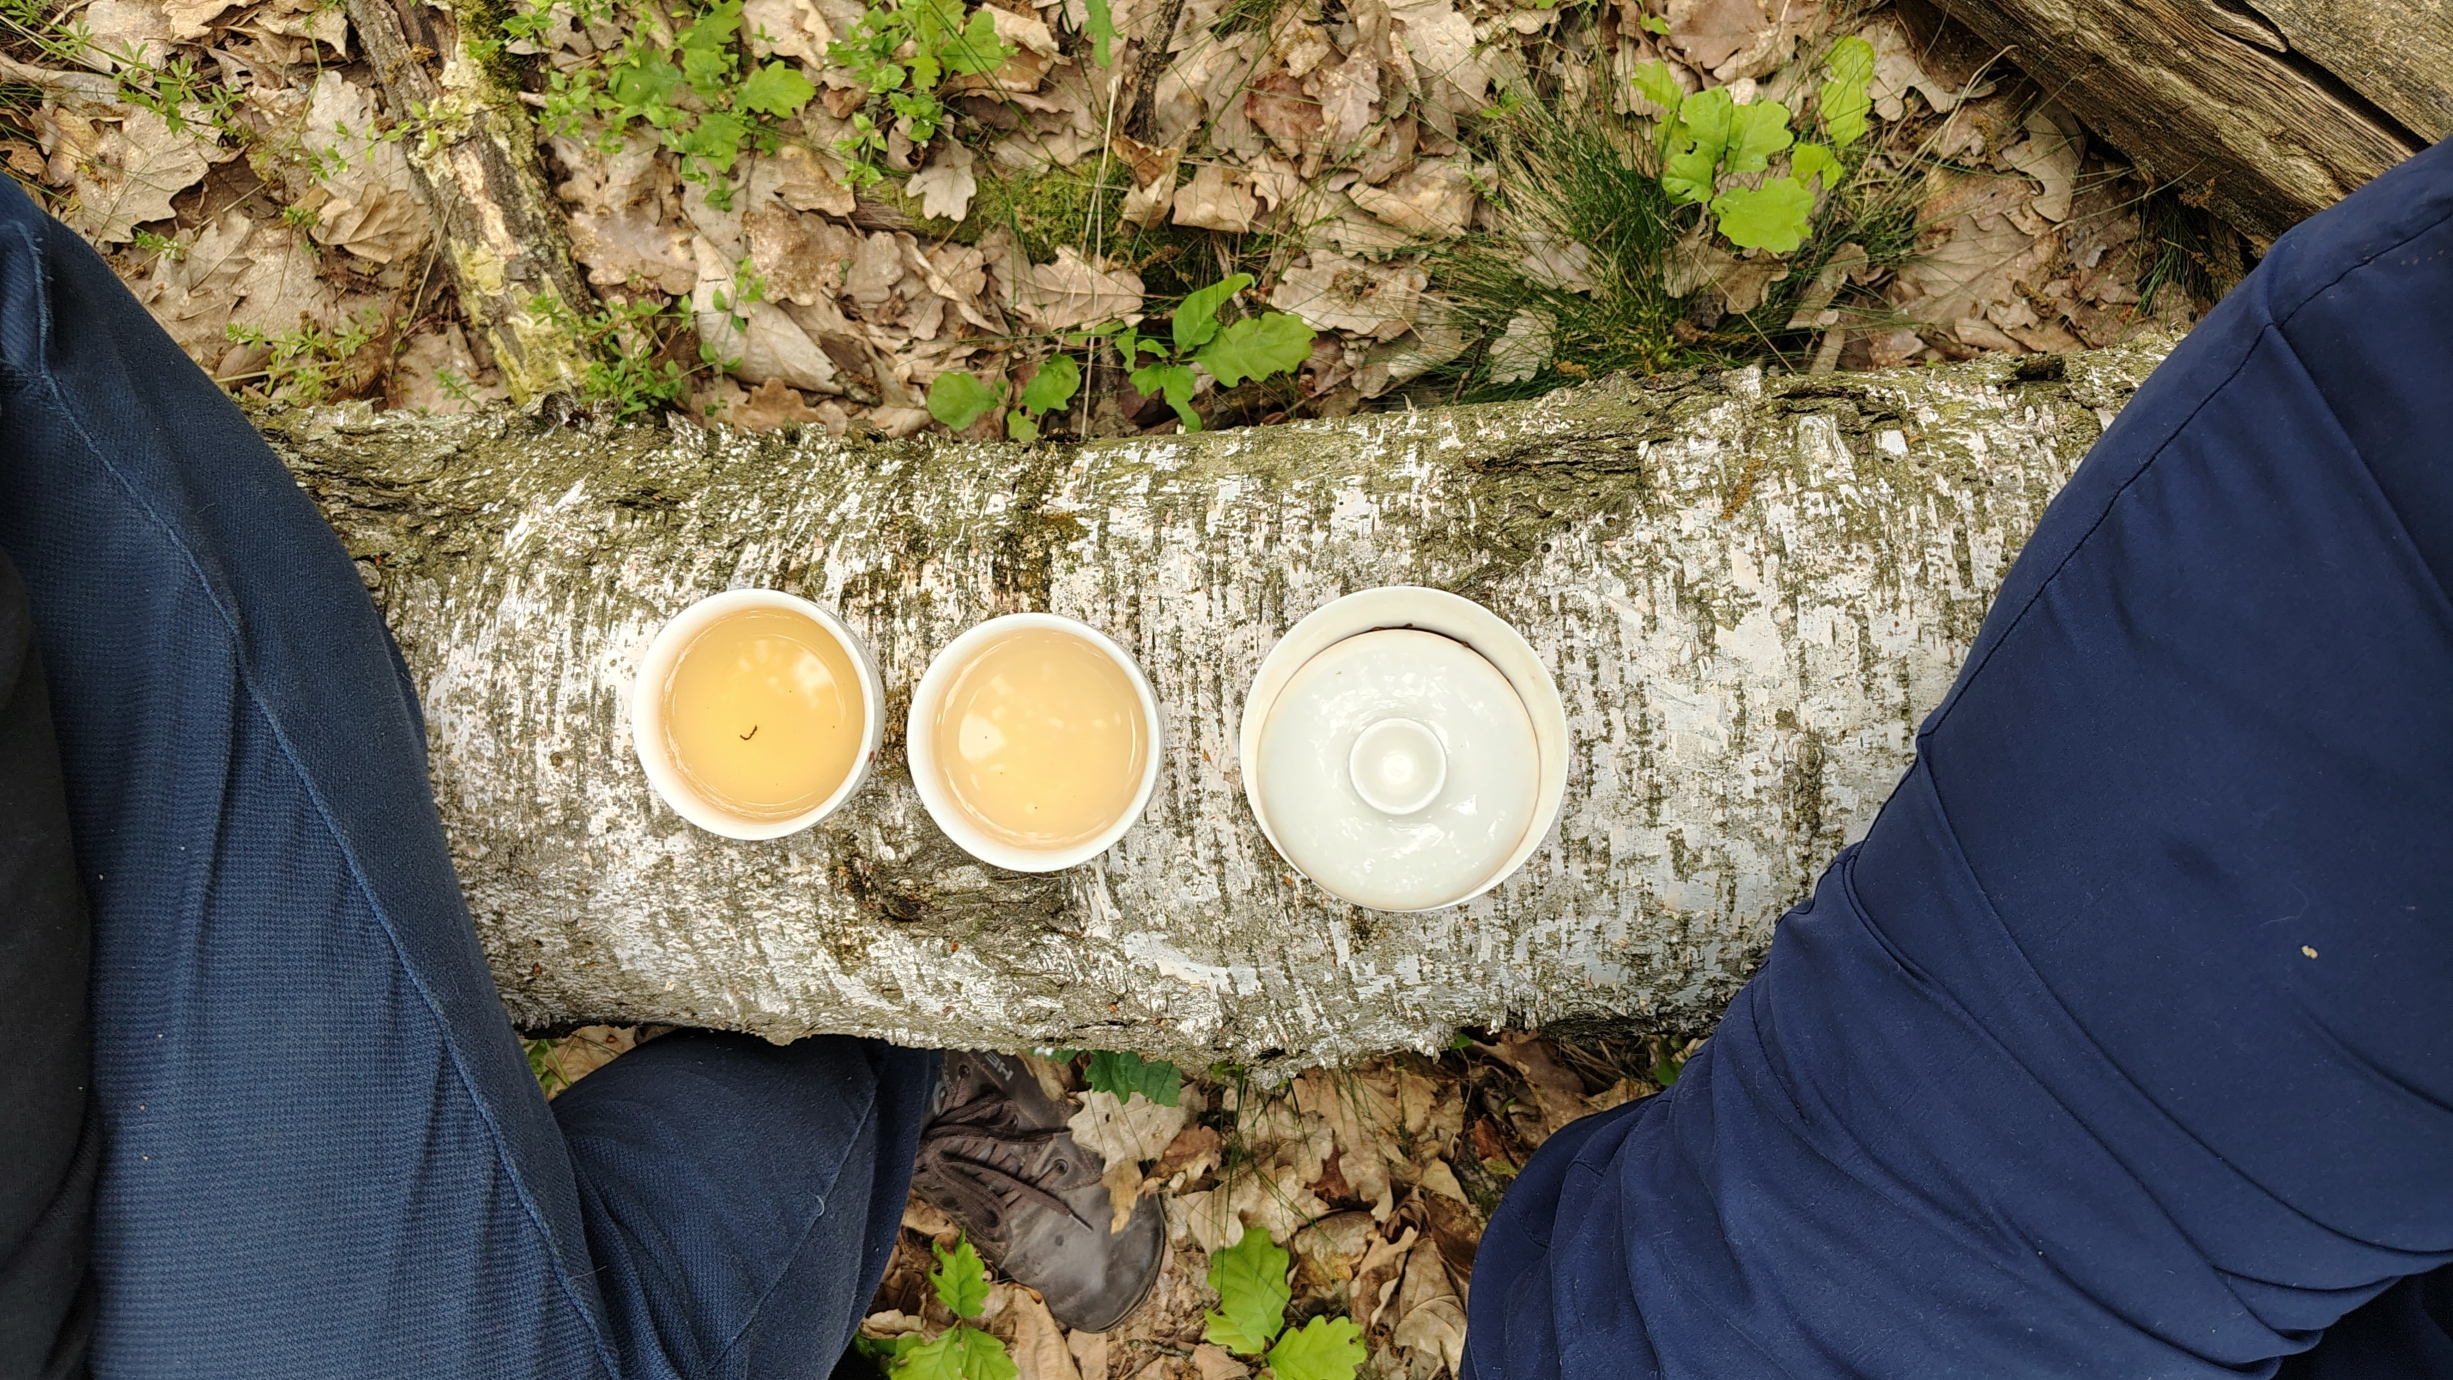
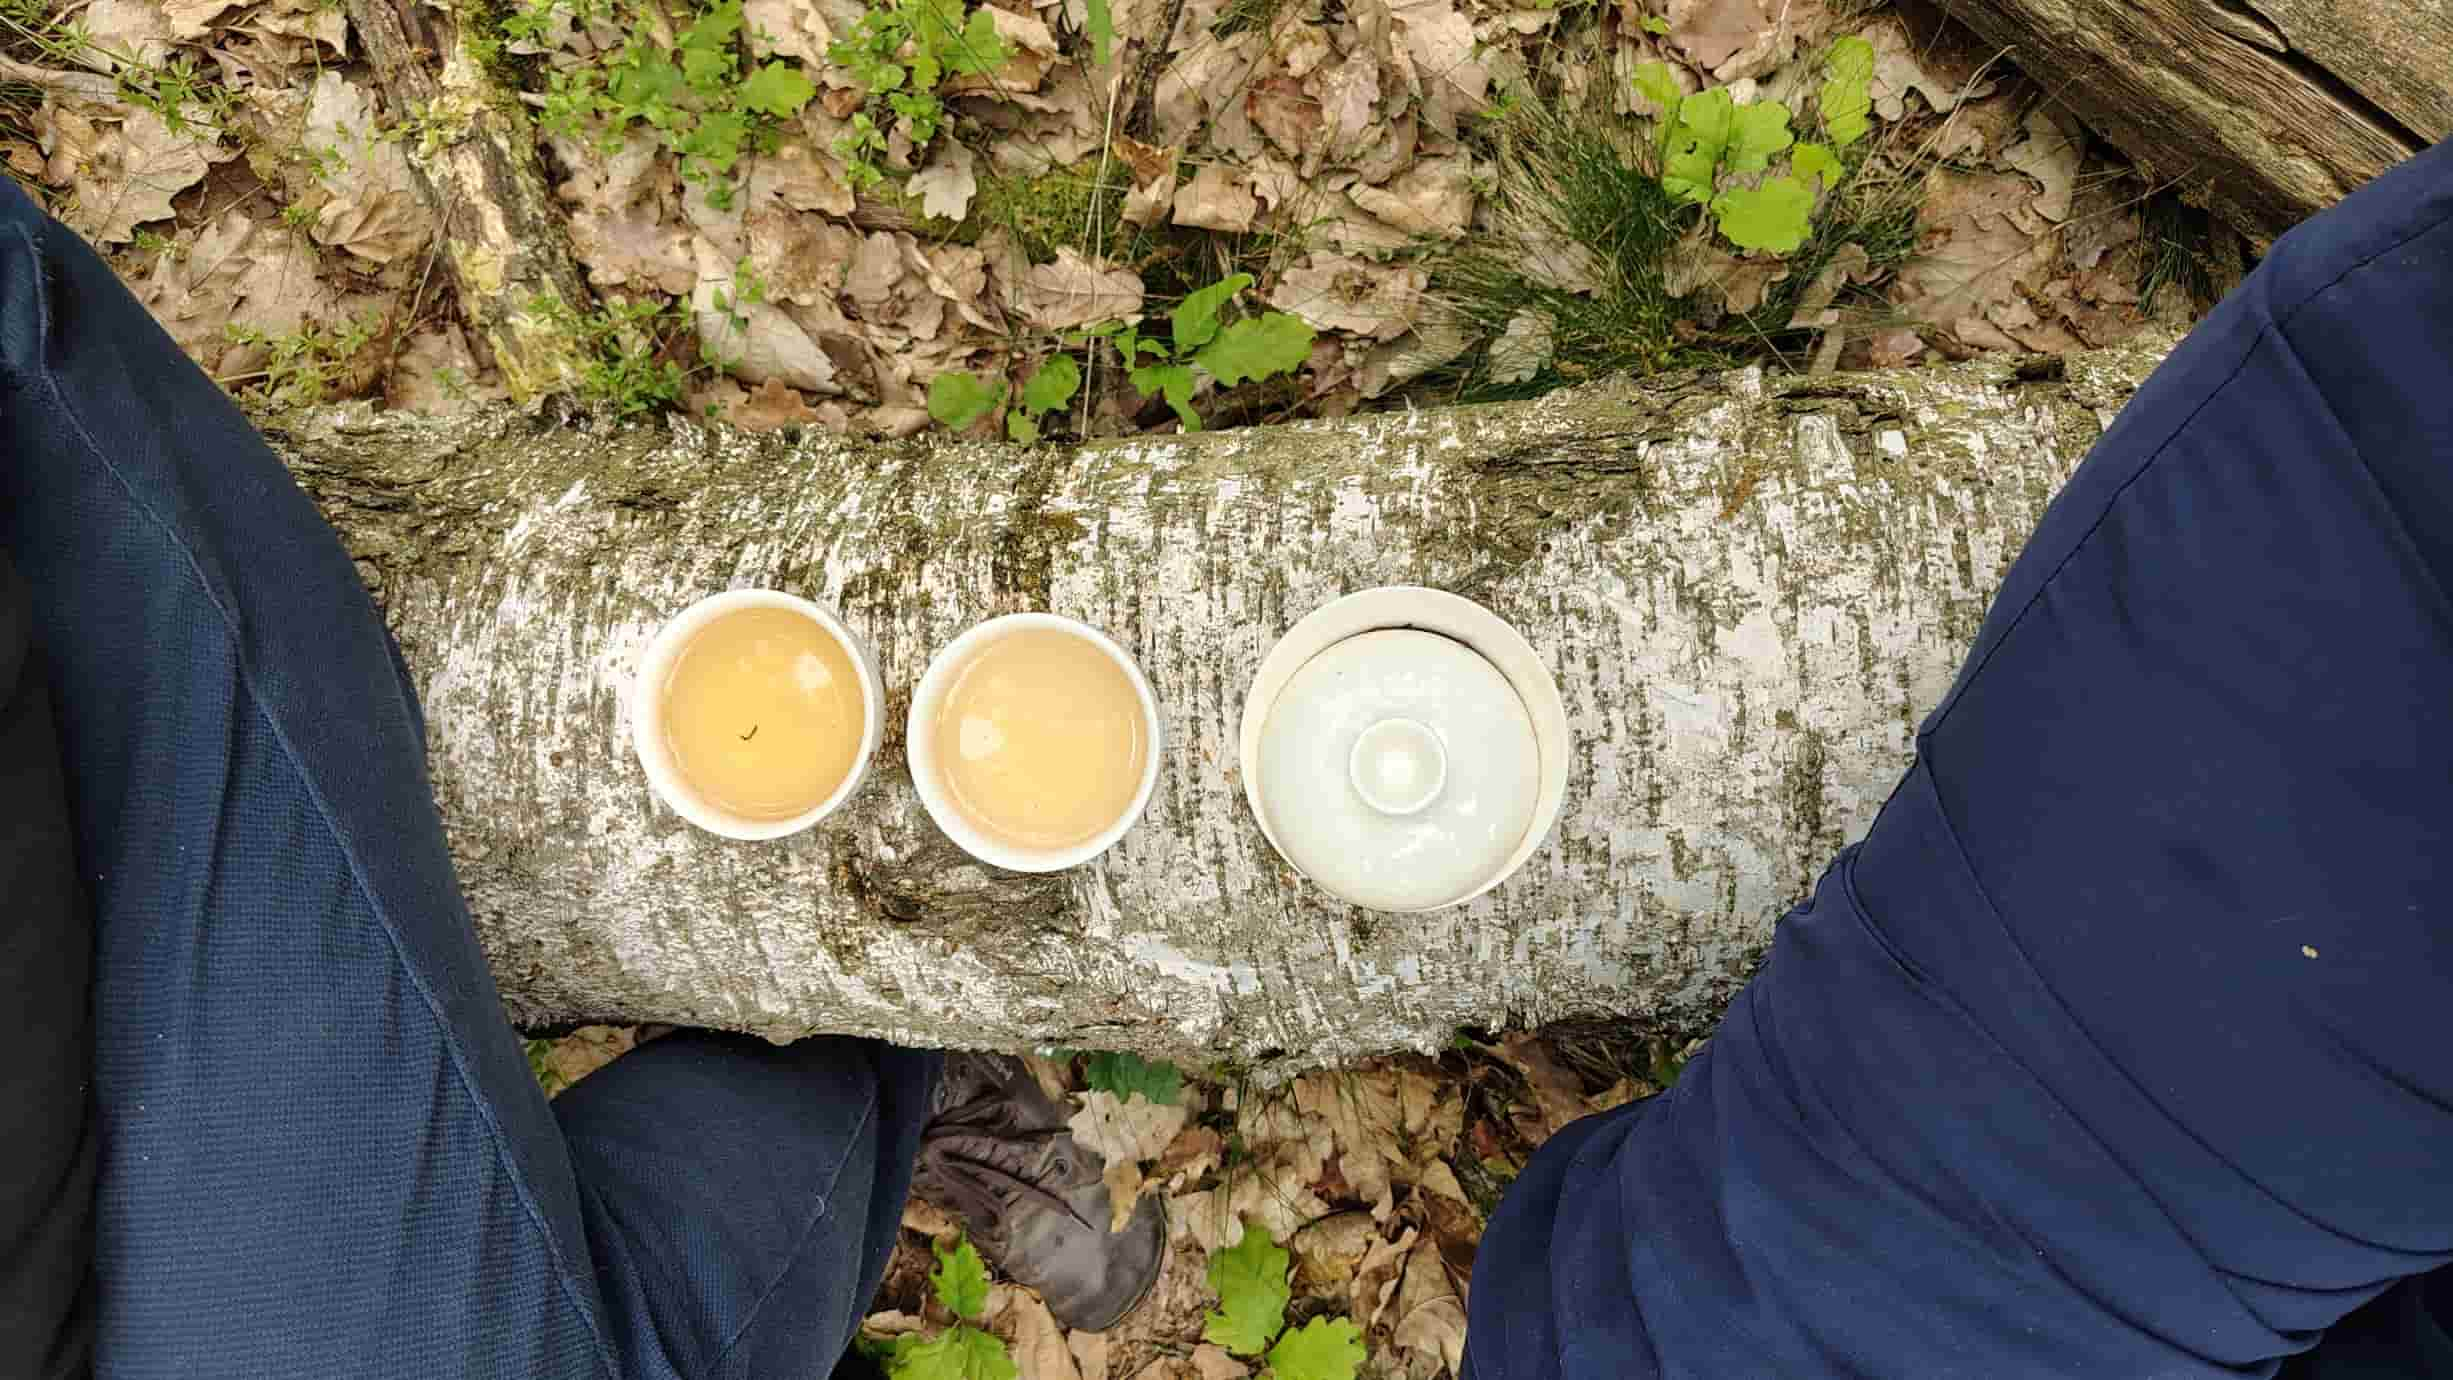
Přidání nové stránky pro malování hennou a aktualizace obrázků; úprava textu na úvodní stránce

diff --git a/src/pages/events/henna-11-8.md b/src/pages/events/henna-11-8.md
@@ -1,0 +1,57 @@
+---
+layout: ../../layouts/ContentPostLayout.astro
+title: malování hennou
+description: přijď si do čajovny pro dočasné tetování hennou
+subtitle: dočasné tetování jen tak pro radost
+metaLabel: Datum
+date: 2026-08-11
+tag: 11.8.2026
+coverImage: henna-7.jpg
+---
+
+### Henna 11.8. od 14:00
+#### Letní dočasné tetování
+V sobotu 18.7. budu v čajovně od 14h **do spotřebování zásoby henny** a nabízím, že ti něco nakreslím hennou na kůži. Můžeš přijít s přesnou představou/obrázkem v ruce, nebo s myšlenkou a společně najdeme motiv, nebo to nechat na mojí geometricko-květinové improvizaci. Pokud chceš mít jistotu, že na tebe přijde řada, napiš mi, v kolik chceš přijít. Nejsme zatím v kontaktu? - použij k tomu prosím e-mail **[email redacted]**
+
+### praktické info
+Henna je prášek z rozemletých listů rostliny _Lawsonia inermis_. Pokud máš sklony k alergickým reakcím a hennu zatím nemáš vyzkoušenou, doporučuje se nejdřív testovací malá tečka na zápěstí nebo za uchem (ideální doba pro jistotu, že jsi bez alergie, je 48h).
+Po malování hennou bude obrázek podle velikosti nějakou dobu schnout a co nejdýl by neměl přijít do kontaktu s vodou - po zaschnutí ho neloupej, až večer před spaním a na sucho! Namazat čerstvě oloupané tetování můžeš kokosovým nebo jiným olejem. Henna je nejdřív po oloupání naoranžovělá a až další den získává svůj hnědý odstím.
+ 
+ 
+
+#### Doporučený příspěvek
+Na čas a materiál podle velikosti a složitosti obrázku - malý o velikosti mince - 50 kč, střední přes půlku předloktí 200-300 Kč, celý rukáv 400-500 Kč (všechno jsou to odhady, ale hennu si míchám sama a kreslení věnuju čas a pozornost - jakýkoliv příspěvek je ve tvých možnostech je pro mě ok)
+### Galerie
+
+<section class="post-gallery" aria-label="Galerie henny">
+	<div class="post-gallery__grid">
+		<details class="gallery-lightbox post-gallery__item">
+			<summary class="gallery-lightbox__thumb"><img src="/henna-01.jpg" alt="Henna ukázka 1" loading="lazy" /></summary>
+			<div class="gallery-lightbox__overlay" aria-hidden="true"><img src="/henna-01.jpg" alt="Henna ukázka 1" loading="lazy" /></div>
+		</details>
+		<details class="gallery-lightbox post-gallery__item">
+			<summary class="gallery-lightbox__thumb"><img src="/henna-02.jpg" alt="Henna ukázka 2" loading="lazy" /></summary>
+			<div class="gallery-lightbox__overlay" aria-hidden="true"><img src="/henna-02.jpg" alt="Henna ukázka 2" loading="lazy" /></div>
+		</details>
+		<details class="gallery-lightbox post-gallery__item">
+			<summary class="gallery-lightbox__thumb"><img src="/henna-03.jpg" alt="Henna ukázka 3" loading="lazy" /></summary>
+			<div class="gallery-lightbox__overlay" aria-hidden="true"><img src="/henna-03.jpg" alt="Henna ukázka 3" loading="lazy" /></div>
+		</details>
+		<details class="gallery-lightbox post-gallery__item">
+			<summary class="gallery-lightbox__thumb"><img src="/henna-04.jpg" alt="Henna ukázka 4" loading="lazy" /></summary>
+			<div class="gallery-lightbox__overlay" aria-hidden="true"><img src="/henna-04.jpg" alt="Henna ukázka 4" loading="lazy" /></div>
+		</details>
+		<details class="gallery-lightbox post-gallery__item">
+			<summary class="gallery-lightbox__thumb"><img src="/navrh-01.jpg" alt="Návrh motivu 1" loading="lazy" /></summary>
+			<div class="gallery-lightbox__overlay" aria-hidden="true"><img src="/navrh-01.jpg" alt="Návrh motivu 1" loading="lazy" /></div>
+		</details>
+		<details class="gallery-lightbox post-gallery__item">
+			<summary class="gallery-lightbox__thumb"><img src="/navrh-02.jpg" alt="Návrh motivu 2" loading="lazy" /></summary>
+			<div class="gallery-lightbox__overlay" aria-hidden="true"><img src="/navrh-02.jpg" alt="Návrh motivu 2" loading="lazy" /></div>
+		</details>
+		<details class="gallery-lightbox post-gallery__item">
+			<summary class="gallery-lightbox__thumb"><img src="/navrh-03.jpg" alt="Návrh motivu 3" loading="lazy" /></summary>
+			<div class="gallery-lightbox__overlay" aria-hidden="true"><img src="/navrh-03.jpg" alt="Návrh motivu 3" loading="lazy" /></div>
+		</details>
+	</div>
+</section>